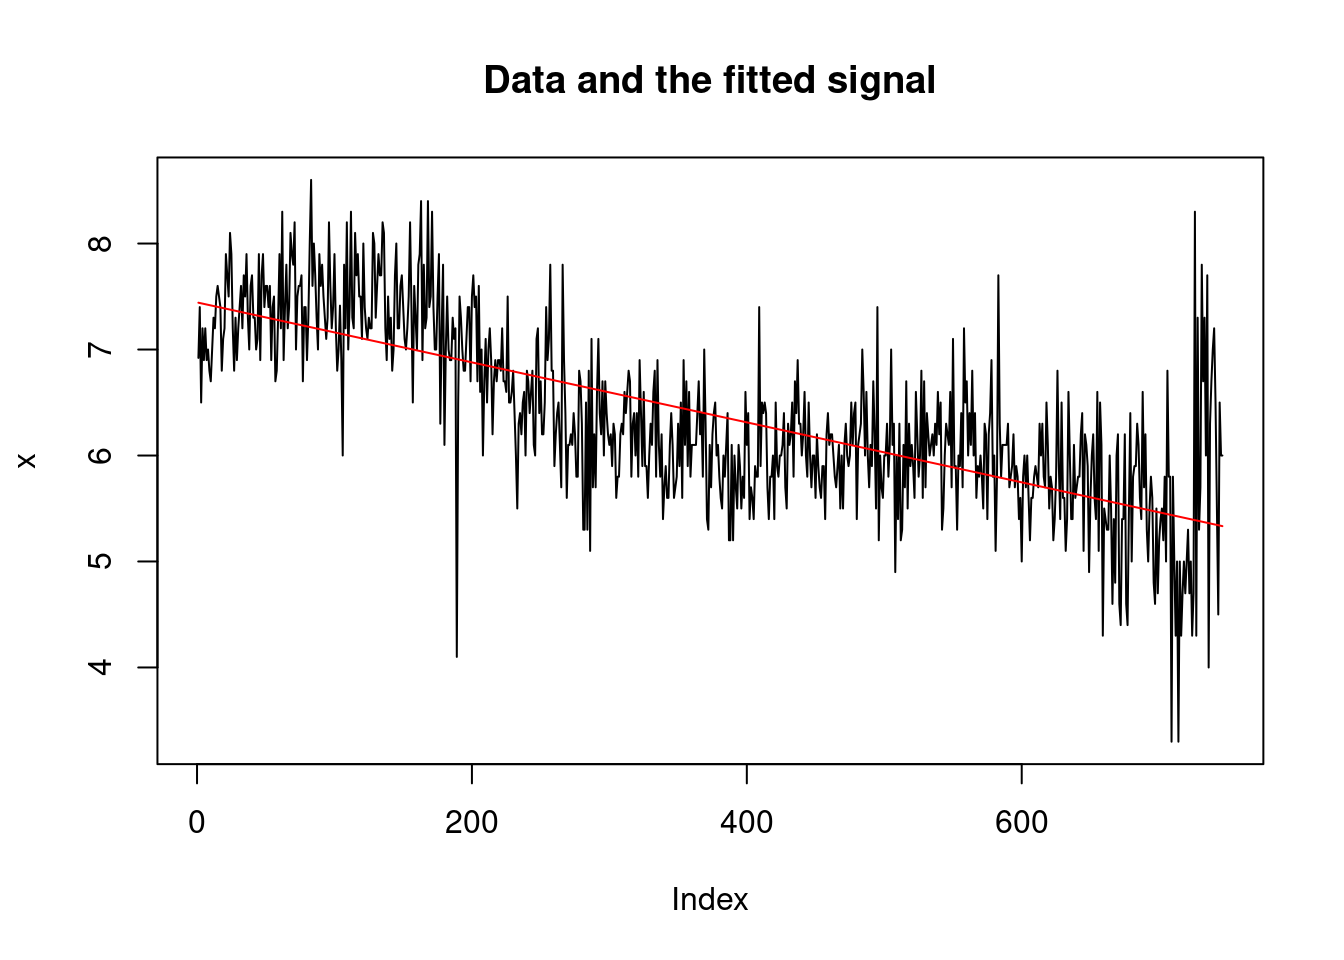
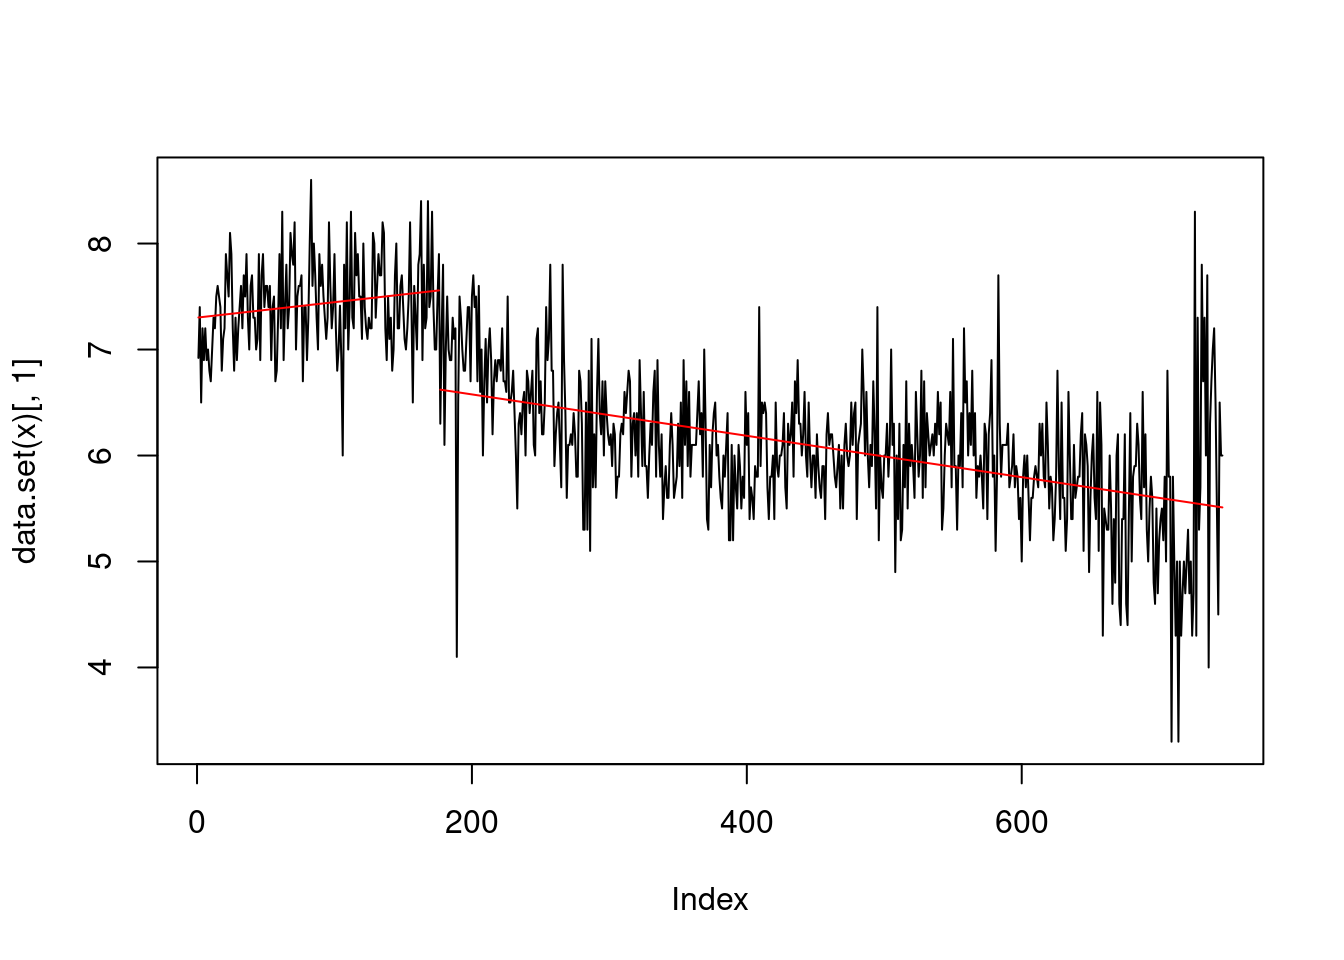
updated notes

diff --git a/_book/2_control.html b/_book/2_control.html
@@ -473,9 +473,9 @@ f_t = \theta_0 + t\theta_1, \quad t = 1, \dots, n,
 \]</span></p>
 <p>where <span class="math inline">\(\theta_0\)</span> is the intercept, and <span class="math inline">\(\theta_1\)</span> is the slope. However, under the alternative hypothesis <span class="math inline">\(H_1\)</span>, we assume there is a changepoint at <span class="math inline">\(\tau\)</span> after which the slope changes. Thus, the signal becomes:</p>
 <p><span class="math display">\[
-f_t = \theta_0 + t\theta_1, \quad t = 1, \dots, \tau; \quad f_t = \theta_0 + \tau \theta_1 + (t-\tau)\theta_2, \quad t = \tau+1, \dots, n,
+f_t = \theta_0 + t\theta_1, \quad t = 1, \dots, \tau; \quad f_t = \quad f_t = \theta_0 + \theta_2 + \tau \theta_1 + (t-\tau)\theta_3, \quad t = \tau+1, \dots, n,
 \]</span></p>
-<p>where <span class="math inline">\(\theta_2\)</span> is the new slope after the changepoint. In other words, the model is showing a continuoos piecewise linear mean.</p>
+<p>where <span class="math inline">\(\theta_2\)</span> is the new slope after the changepoint. In other words, the model is showing a piecewise linear mean.</p>
 <p>For this model, the log-likelihood ratio test statistic can be written as the square of a projection of the data onto a vector <span class="math inline">\(v_\tau\)</span>, i.e.,</p>
 <p><span class="math display">\[
 LR_\tau = \left( v_\tau^\top y_{1:n} \right)^2,
@@ -485,7 +485,7 @@ LR_\tau = \left( v_\tau^\top y_{1:n} \right)^2,
 <section id="revisiting-our-simpsons-data-again" class="level3" data-number="2.3.3">
 <h3 data-number="2.3.3" class="anchored" data-anchor-id="revisiting-our-simpsons-data-again"><span class="header-section-number">2.3.3</span> Revisiting our Simpsons data (again!)</h3>
 <p>So, going back to the Simpsons example… We mentioned how the belowed show rose rapidly to success, and at one point, started to <em>decline…</em> A much better model would therefore be our change-in-slope model!</p>
-<p>To run the model, we can take advantage of the <code>not</code> package, which by default is a multiple changepoint algorithm (we will see these in the next week), but whose simplest case implements exactly our change-in-slope LR test.</p>
+<p>To run the model, we can take advantage of the <code>changepoint</code> package, which by default is a multiple changepoint package (we will see these in the next week), but whose simplest case implements exactly our change-in-slope LR test.</p>
 <p>Before we proceed, we need to load, clean and standardize our data:</p>
 <div class="cell" data-warnings="false">
 <div class="sourceCode cell-code" id="cb1"><pre class="sourceCode r code-with-copy"><code class="sourceCode r"><span id="cb1-1"><a href="#cb1-1" aria-hidden="true" tabindex="-1"></a><span class="co"># Load Simpsons ratings data</span></span>
@@ -498,15 +498,17 @@ LR_\tau = \left( v_\tau^\top y_{1:n} \right)^2,
 </div>
 <p>We can then run our model with:</p>
 <div class="cell">
-<div class="sourceCode cell-code" id="cb2"><pre class="sourceCode r code-with-copy"><code class="sourceCode r"><span id="cb2-1"><a href="#cb2-1" aria-hidden="true" tabindex="-1"></a><span class="fu">library</span>(not)</span>
+<div class="sourceCode cell-code" id="cb2"><pre class="sourceCode r code-with-copy"><code class="sourceCode r"><span id="cb2-1"><a href="#cb2-1" aria-hidden="true" tabindex="-1"></a><span class="fu">library</span>(changepoint)</span>
 <span id="cb2-2"><a href="#cb2-2" aria-hidden="true" tabindex="-1"></a></span>
-<span id="cb2-3"><a href="#cb2-3" aria-hidden="true" tabindex="-1"></a>r <span class="ot">&lt;-</span> <span class="fu">not</span>(y, <span class="at">method =</span> <span class="st">"max"</span>, <span class="at">rand.intervals =</span> <span class="cn">FALSE</span>, <span class="at">contrast =</span> <span class="st">"pcwsLinContMean"</span>, <span class="at">intervals =</span> <span class="fu">random.intervals</span>(n, <span class="dv">1</span>, <span class="at">min.length =</span> (n<span class="dv">-1</span>)))</span>
+<span id="cb2-3"><a href="#cb2-3" aria-hidden="true" tabindex="-1"></a>data <span class="ot">&lt;-</span> <span class="fu">cbind</span>(y, <span class="dv">1</span>, <span class="dv">1</span><span class="sc">:</span><span class="fu">length</span>(y))</span>
 <span id="cb2-4"><a href="#cb2-4" aria-hidden="true" tabindex="-1"></a></span>
-<span id="cb2-5"><a href="#cb2-5" aria-hidden="true" tabindex="-1"></a><span class="fu">print</span>(<span class="fu">paste0</span>(<span class="st">"Our changepoint estimate: "</span>,  <span class="fu">features</span>(r)<span class="sc">$</span>cpt))</span></code><button title="Copy to Clipboard" class="code-copy-button"><i class="bi"></i></button></pre></div>
+<span id="cb2-5"><a href="#cb2-5" aria-hidden="true" tabindex="-1"></a>out <span class="ot">&lt;-</span> <span class="fu">cpt.reg</span>(data, <span class="at">method=</span><span class="st">"AMOC"</span>, <span class="at">minseglen=</span><span class="dv">5</span>, <span class="at">penalty=</span><span class="st">"MBIC"</span>, <span class="at">test.stat=</span><span class="st">"Normal"</span>)</span>
+<span id="cb2-6"><a href="#cb2-6" aria-hidden="true" tabindex="-1"></a></span>
+<span id="cb2-7"><a href="#cb2-7" aria-hidden="true" tabindex="-1"></a><span class="fu">print</span>(<span class="fu">paste0</span>(<span class="st">"Our changepoint estimate (chagepoints): "</span>,  <span class="fu">cpts</span>(out)))</span></code><button title="Copy to Clipboard" class="code-copy-button"><i class="bi"></i></button></pre></div>
 <div class="cell-output cell-output-stdout">
-<pre><code>[1] "Our changepoint estimate: NA"</code></pre>
+<pre><code>[1] "Our changepoint estimate (chagepoints): 176"</code></pre>
 </div>
-<div class="sourceCode cell-code" id="cb4"><pre class="sourceCode r code-with-copy"><code class="sourceCode r"><span id="cb4-1"><a href="#cb4-1" aria-hidden="true" tabindex="-1"></a><span class="fu">plot</span>(r)</span></code><button title="Copy to Clipboard" class="code-copy-button"><i class="bi"></i></button></pre></div>
+<div class="sourceCode cell-code" id="cb4"><pre class="sourceCode r code-with-copy"><code class="sourceCode r"><span id="cb4-1"><a href="#cb4-1" aria-hidden="true" tabindex="-1"></a><span class="fu">plot</span>(out)</span></code><button title="Copy to Clipboard" class="code-copy-button"><i class="bi"></i></button></pre></div>
 <div class="cell-output-display">
 <div>
 <figure class="figure">
@@ -515,62 +517,7 @@ LR_\tau = \left( v_\tau^\top y_{1:n} \right)^2,
 </div>
 </div>
 </div>
-<p>We notice how the test statistics implemented does not detect any significant change… As this may sound a bit anti-climatic, there is still some relaxation on the hypotheses that we can do to obtain a better answer. We can, in fact, relax the hypothesis that the regression line needs to be continuous, and assume that there might be a change in the intercept too, signifying an abrupt change:</p>
-<p><span class="math display">\[
-f_t = \theta_0 + t\theta_1, \quad t = 1, \dots, \tau; \quad f_t = \theta_0 + \theta_2 + \tau \theta_1 + (t-\tau)\theta_3, \quad t = \tau+1, \dots, n,
-\]</span></p>
-<p>We can do that by changing the model via the <code>contrast</code> argument:</p>
-<div class="cell">
-<div class="sourceCode cell-code" id="cb5"><pre class="sourceCode r code-with-copy"><code class="sourceCode r"><span id="cb5-1"><a href="#cb5-1" aria-hidden="true" tabindex="-1"></a>r <span class="ot">&lt;-</span> <span class="fu">not</span>(y, <span class="at">method =</span> <span class="st">"max"</span>, <span class="at">rand.intervals =</span> <span class="cn">FALSE</span>, <span class="at">contrast =</span> <span class="st">"pcwsLinMean"</span>, <span class="at">intervals =</span> <span class="fu">random.intervals</span>(n, <span class="dv">1</span>, <span class="at">min.length =</span> (n<span class="dv">-1</span>)))</span>
-<span id="cb5-2"><a href="#cb5-2" aria-hidden="true" tabindex="-1"></a></span>
-<span id="cb5-3"><a href="#cb5-3" aria-hidden="true" tabindex="-1"></a><span class="fu">print</span>(<span class="fu">paste0</span>(<span class="st">"Our changepoint estimate: "</span>,  <span class="fu">features</span>(r)<span class="sc">$</span>cpt))</span></code><button title="Copy to Clipboard" class="code-copy-button"><i class="bi"></i></button></pre></div>
-<div class="cell-output cell-output-stdout">
-<pre><code>[1] "Our changepoint estimate: 176"</code></pre>
-</div>
-<div class="sourceCode cell-code" id="cb7"><pre class="sourceCode r code-with-copy"><code class="sourceCode r"><span id="cb7-1"><a href="#cb7-1" aria-hidden="true" tabindex="-1"></a><span class="fu">plot</span>(r)</span></code><button title="Copy to Clipboard" class="code-copy-button"><i class="bi"></i></button></pre></div>
-<div class="cell-output-display">
-<div>
-<figure class="figure">
-<p><img src="2_control_files/figure-html/unnamed-chunk-7-1.png" class="img-fluid figure-img" width="672"></p>
-</figure>
-</div>
-</div>
-<div class="sourceCode cell-code" id="cb8"><pre class="sourceCode r code-with-copy"><code class="sourceCode r"><span id="cb8-1"><a href="#cb8-1" aria-hidden="true" tabindex="-1"></a><span class="fu">library</span>(changepoint)</span></code><button title="Copy to Clipboard" class="code-copy-button"><i class="bi"></i></button></pre></div>
-<div class="cell-output cell-output-stderr">
-<pre><code>Loading required package: zoo</code></pre>
-</div>
-<div class="cell-output cell-output-stderr">
-<pre><code>
-Attaching package: 'zoo'</code></pre>
-</div>
-<div class="cell-output cell-output-stderr">
-<pre><code>The following objects are masked from 'package:base':
-
-    as.Date, as.Date.numeric</code></pre>
-</div>
-<div class="cell-output cell-output-stderr">
-<pre><code>Successfully loaded changepoint package version 2.3
- WARNING: From v.2.3 the default method in cpt.* functions has changed from AMOC to PELT.
- See NEWS for details of all changes.</code></pre>
-</div>
-<div class="sourceCode cell-code" id="cb13"><pre class="sourceCode r code-with-copy"><code class="sourceCode r"><span id="cb13-1"><a href="#cb13-1" aria-hidden="true" tabindex="-1"></a>data <span class="ot">&lt;-</span> <span class="fu">cbind</span>(y, <span class="dv">1</span>, <span class="dv">1</span><span class="sc">:</span><span class="fu">length</span>(y))</span>
-<span id="cb13-2"><a href="#cb13-2" aria-hidden="true" tabindex="-1"></a></span>
-<span id="cb13-3"><a href="#cb13-3" aria-hidden="true" tabindex="-1"></a>out <span class="ot">&lt;-</span> <span class="fu">cpt.reg</span>(data, <span class="at">method=</span><span class="st">"AMOC"</span>, <span class="at">minseglen=</span><span class="dv">5</span>, <span class="at">penalty=</span><span class="st">"MBIC"</span>, <span class="at">test.stat=</span><span class="st">"Normal"</span>)</span>
-<span id="cb13-4"><a href="#cb13-4" aria-hidden="true" tabindex="-1"></a></span>
-<span id="cb13-5"><a href="#cb13-5" aria-hidden="true" tabindex="-1"></a><span class="fu">print</span>(<span class="fu">paste0</span>(<span class="st">"Our changepoint estimate (chagepoints): "</span>,  <span class="fu">cpts</span>(out)))</span></code><button title="Copy to Clipboard" class="code-copy-button"><i class="bi"></i></button></pre></div>
-<div class="cell-output cell-output-stdout">
-<pre><code>[1] "Our changepoint estimate (chagepoints): 176"</code></pre>
-</div>
-<div class="sourceCode cell-code" id="cb15"><pre class="sourceCode r code-with-copy"><code class="sourceCode r"><span id="cb15-1"><a href="#cb15-1" aria-hidden="true" tabindex="-1"></a><span class="fu">plot</span>(out)</span></code><button title="Copy to Clipboard" class="code-copy-button"><i class="bi"></i></button></pre></div>
-<div class="cell-output-display">
-<div>
-<figure class="figure">
-<p><img src="2_control_files/figure-html/unnamed-chunk-7-2.png" class="img-fluid figure-img" width="672"></p>
-</figure>
-</div>
-</div>
-</div>
-<p>We can see that we now find a significant changepoint prior to episode The Simpsons Spin-Off Showcase, which is anthology episode well over into season 8, which is by many considered the last good one!</p>
+<p>We can see that we now find a significant changepoint prior to episode The Simpsons Spin-Off Showcase, which is anthology episode well over into season 8, which, according to our method, is the beginning of the decline! However, some among you, might have noticed that there are more then one changes in this dataset… We will see, in fact, how we can improve on our estimation in the following weeks!</p>
 </section>
 </section>
 <section id="exercises" class="level2" data-number="2.4">

diff --git a/index.tex b/index.tex
@@ -1335,11 +1335,11 @@ changepoint at \(\tau\) after which the slope changes. Thus, the signal
 becomes:
 
 \[
-f_t = \theta_0 + t\theta_1, \quad t = 1, \dots, \tau; \quad f_t = \theta_0 + \tau \theta_1 + (t-\tau)\theta_2, \quad t = \tau+1, \dots, n,
+f_t = \theta_0 + t\theta_1, \quad t = 1, \dots, \tau; \quad f_t = \quad f_t = \theta_0 + \theta_2 + \tau \theta_1 + (t-\tau)\theta_3, \quad t = \tau+1, \dots, n,
 \]
 
 where \(\theta_2\) is the new slope after the changepoint. In other
-words, the model is showing a continuoos piecewise linear mean.
+words, the model is showing a piecewise linear mean.
 
 For this model, the log-likelihood ratio test statistic can be written
 as the square of a projection of the data onto a vector \(v_\tau\),
@@ -1367,9 +1367,9 @@ belowed show rose rapidly to success, and at one point, started to
 \emph{decline\ldots{}} A much better model would therefore be our
 change-in-slope model!
 
-To run the model, we can take advantage of the \texttt{not} package,
-which by default is a multiple changepoint algorithm (we will see these
-in the next week), but whose simplest case implements exactly our
+To run the model, we can take advantage of the \texttt{changepoint}
+package, which by default is a multiple changepoint package (we will see
+these in the next week), but whose simplest case implements exactly our
 change-in-slope LR test.
 
 Before we proceed, we need to load, clean and standardize our data:
@@ -1390,88 +1390,8 @@ We can then run our model with:
 
 \begin{Shaded}
 \begin{Highlighting}[]
-\FunctionTok{library}\NormalTok{(not)}
-
-\NormalTok{r }\OtherTok{\textless{}{-}} \FunctionTok{not}\NormalTok{(y, }\AttributeTok{method =} \StringTok{"max"}\NormalTok{, }\AttributeTok{rand.intervals =} \ConstantTok{FALSE}\NormalTok{, }\AttributeTok{contrast =} \StringTok{"pcwsLinContMean"}\NormalTok{, }\AttributeTok{intervals =} \FunctionTok{random.intervals}\NormalTok{(n, }\DecValTok{1}\NormalTok{, }\AttributeTok{min.length =}\NormalTok{ (n}\DecValTok{{-}1}\NormalTok{)))}
-
-\FunctionTok{print}\NormalTok{(}\FunctionTok{paste0}\NormalTok{(}\StringTok{"Our changepoint estimate: "}\NormalTok{,  }\FunctionTok{features}\NormalTok{(r)}\SpecialCharTok{$}\NormalTok{cpt))}
-\end{Highlighting}
-\end{Shaded}
-
-\begin{verbatim}
-[1] "Our changepoint estimate: NA"
-\end{verbatim}
-
-\begin{Shaded}
-\begin{Highlighting}[]
-\FunctionTok{plot}\NormalTok{(r)}
-\end{Highlighting}
-\end{Shaded}
-
-\includegraphics{2_control_files/figure-pdf/unnamed-chunk-6-1.pdf}
-
-We notice how the test statistics implemented does not detect any
-significant change\ldots{} As this may sound a bit anti-climatic, there
-is still some relaxation on the hypotheses that we can do to obtain a
-better answer. We can, in fact, relax the hypothesis that the regression
-line needs to be continuous, and assume that there might be a change in
-the intercept too, signifying an abrupt change:
-
-\[
-f_t = \theta_0 + t\theta_1, \quad t = 1, \dots, \tau; \quad f_t = \theta_0 + \theta_2 + \tau \theta_1 + (t-\tau)\theta_3, \quad t = \tau+1, \dots, n,
-\]
-
-We can do that by changing the model via the \texttt{contrast} argument:
-
-\begin{Shaded}
-\begin{Highlighting}[]
-\NormalTok{r }\OtherTok{\textless{}{-}} \FunctionTok{not}\NormalTok{(y, }\AttributeTok{method =} \StringTok{"max"}\NormalTok{, }\AttributeTok{rand.intervals =} \ConstantTok{FALSE}\NormalTok{, }\AttributeTok{contrast =} \StringTok{"pcwsLinMean"}\NormalTok{, }\AttributeTok{intervals =} \FunctionTok{random.intervals}\NormalTok{(n, }\DecValTok{1}\NormalTok{, }\AttributeTok{min.length =}\NormalTok{ (n}\DecValTok{{-}1}\NormalTok{)))}
-
-\FunctionTok{print}\NormalTok{(}\FunctionTok{paste0}\NormalTok{(}\StringTok{"Our changepoint estimate: "}\NormalTok{,  }\FunctionTok{features}\NormalTok{(r)}\SpecialCharTok{$}\NormalTok{cpt))}
-\end{Highlighting}
-\end{Shaded}
-
-\begin{verbatim}
-[1] "Our changepoint estimate: 176"
-\end{verbatim}
-
-\begin{Shaded}
-\begin{Highlighting}[]
-\FunctionTok{plot}\NormalTok{(r)}
-\end{Highlighting}
-\end{Shaded}
-
-\includegraphics{2_control_files/figure-pdf/unnamed-chunk-7-1.pdf}
-
-\begin{Shaded}
-\begin{Highlighting}[]
 \FunctionTok{library}\NormalTok{(changepoint)}
-\end{Highlighting}
-\end{Shaded}
 
-\begin{verbatim}
-Loading required package: zoo
-\end{verbatim}
-
-\begin{verbatim}
-
-Attaching package: 'zoo'
-\end{verbatim}
-
-\begin{verbatim}
-The following objects are masked from 'package:base':
-
-    as.Date, as.Date.numeric
-\end{verbatim}
-
-\begin{verbatim}
-Successfully loaded changepoint package version 2.3
- WARNING: From v.2.3 the default method in cpt.* functions has changed from AMOC to PELT.
- See NEWS for details of all changes.
-\end{verbatim}
-
-\begin{Shaded}
-\begin{Highlighting}[]
 \NormalTok{data }\OtherTok{\textless{}{-}} \FunctionTok{cbind}\NormalTok{(y, }\DecValTok{1}\NormalTok{, }\DecValTok{1}\SpecialCharTok{:}\FunctionTok{length}\NormalTok{(y))}
 
 \NormalTok{out }\OtherTok{\textless{}{-}} \FunctionTok{cpt.reg}\NormalTok{(data, }\AttributeTok{method=}\StringTok{"AMOC"}\NormalTok{, }\AttributeTok{minseglen=}\DecValTok{5}\NormalTok{, }\AttributeTok{penalty=}\StringTok{"MBIC"}\NormalTok{, }\AttributeTok{test.stat=}\StringTok{"Normal"}\NormalTok{)}
@@ -1490,11 +1410,14 @@ Successfully loaded changepoint package version 2.3
 \end{Highlighting}
 \end{Shaded}
 
-\includegraphics{2_control_files/figure-pdf/unnamed-chunk-7-2.pdf}
+\includegraphics{2_control_files/figure-pdf/unnamed-chunk-6-1.pdf}
 
 We can see that we now find a significant changepoint prior to episode
 The Simpsons Spin-Off Showcase, which is anthology episode well over
-into season 8, which is by many considered the last good one!
+into season 8, which, according to our method, is the beginning of the
+decline! However, some among you, might have noticed that there are more
+then one changes in this dataset\ldots{} We will see, in fact, how we
+can improve on our estimation in the following weeks!
 
 \section{Exercises}\label{exercises-1}
 
